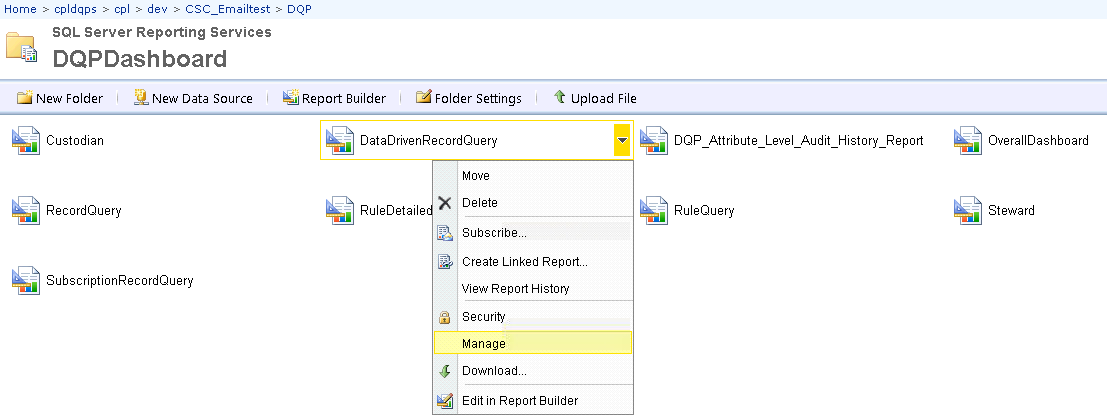
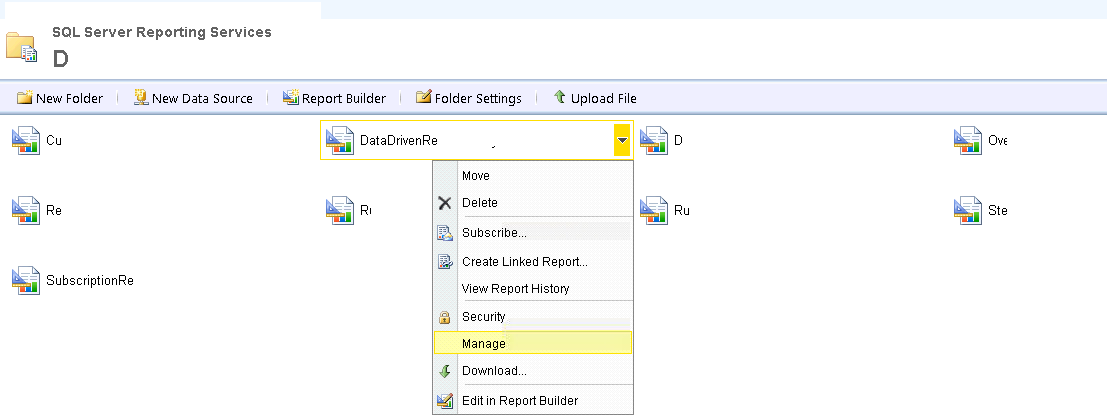
dds process
ssrs dds process

diff --git a/SSRS/DataDrivenEmailSubscriptions.md b/SSRS/DataDrivenEmailSubscriptions.md
@@ -1,5 +1,81 @@
 # Data Driven E-Mail Subscription #
 
+**Get Data Source path to be used to get the subscription data.**
+
+    Go to Report Manager URL for the deployed reports
+![Report Manager](DataDrivenEmailSubscriptions/ReportManager.png)
+
+    Go To “Datasets” folder
+![DataSources](DataDrivenEmailSubscriptions/DataSources.png)
+
+    Click on “DQ” dataset and click “Data Source” menu on the left. 
+    Following screen will provide the Data Source path. Copy this path to be used later.
+
+![DataSourcePath](DataDrivenEmailSubscriptions/DataSourcePath.png)
 
 
+**Data Driven Email Subscription Steps**
+
+    Go to report Manager URL for the deployed reports and click “D”
+![Reports](DataDrivenEmailSubscriptions/Reports.png)
+
+    Move Mouse Pointer over “DataDrivenRe” report.
+    A drop down option will appear, click on that and select “Manage” option.
+
+![Report Manage Option](DataDrivenEmailSubscriptions/Report-Manage.png)
+
+    Go to “Subscriptions” tab and Click “New Data-driven Subscription” option.
+![Create DataDriven Subscription](DataDrivenEmailSubscriptions/CreateDataDrivenSubscription.png)
+
+    Following 7 steps are to setup subscription with specific settings.
+    Select / Enter following options and Click Next
+      Description - Re DataDriven Subscription
+      Specify how recipients are notified - E-Mail
+      Specify a data source that contains recipient information - Specify a shared data source
+
+![DataDriven Subscription Step 1](DataDrivenEmailSubscriptions/DataDrivenSubscription-Step1.png)
+
+
+    Select / Enter following options and Click Next
+      Location - paste the path identified in “pre-requisites” section.
+![DataDriven Subscription Step 2](DataDrivenEmailSubscriptions/DataDrivenSubscription-Step2.png)
+
+
+    Select / Enter following options and Click Next
+      Copy Paste the queries which would return the subscription settings required.
+      Click Validate , if you get a “Valid Query” message then proceed.
+![DataDriven Subscription Step 3](DataDrivenEmailSubscriptions/DataDrivenSubscription-Step3.png)
+
+
+    Select / Enter following options and Click Next
+      To - Select “Get the value from the database” select “TO_EMAIL_LIST” from dropdown
+      Cc - Select “Get the value from the database” select “CC_EMAIL_LIST” from dropdown
+      Include Report - Select “Specify a static value” select “True” from dropdown
+      Render Format - Select “Get the value from the database” select “RENDER_FORMAT” from dropdown
+      Subject - Select “Get the value from the database” select “SUBJECT” from dropdown
+      Comment - Select “Get the value from the database” select “BODY” from dropdown
+      Include Link - Select “no value”
+
+![DataDriven Subscription Step 4](DataDrivenEmailSubscriptions/DataDrivenSubscription-Step4.png)
+
+
+    Select / Enter following options and Click Next
+      VE - Select “Get the value from the database” select “NAME” from dropdown
+      SUBSCRIPTIONID - Select “Get the value from the database” select “SubscriptionID” from dropdown
+
+![DataDriven Subscription Step 5](DataDrivenEmailSubscriptions/DataDrivenSubscription-Step5.png)
+
+
+    Select / Enter following options and Click Next
+      Notify recipients - On a schedule create for this subscription
+![DataDriven Subscription Step 6](DataDrivenEmailSubscriptions/DataDrivenSubscription-Step6.png)
+
+
+    Select / Enter following options and Click Next
+      Schedule details - Select option as needed.
+                         Based on these selections report are trigger and sent out.
+
+![DataDriven Subscription Step 7](DataDrivenEmailSubscriptions/DataDrivenSubscription-Step7.png)
+
+    One the Subscription is setup it will appear under “My Subscriptions”
 ![My Subscriptions](DataDrivenEmailSubscriptions/MySubscriptions.png)
